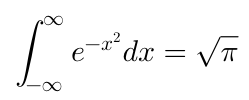
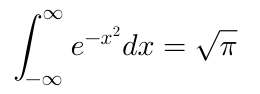
Updated readme/changelog for new release.
Updated example images.

Changed region(s): [[0.253, 0.2766, 0.9558, 0.6809], [0.0562, 0.1064, 0.253, 0.9149]]

diff --git a/EXAMPLES.md b/EXAMPLES.md
@@ -48,6 +48,13 @@ x = \frac{-b \pm \sqrt{b^2-4ac}}{2a}
 
 ![Limit](img/limit.png)
 
+## Calculus
+```LaTeX
+f(x) = \int_{-\infty}^\infty\hat f(\xi)\,e^{2 \pi i \xi x}\,d\xi
+```
+
+![Calculus](img/calculus.png)
+
 ## Stirling Numbers of the Second Kind
 ```LaTeX
 {n \brace k} = \frac{1}{k!}\sum_{j=0}^k (-1)^{k-j}\binom{k}{j}(k-j)^n
@@ -88,4 +95,78 @@ i\hbar\frac{\partial}{\partial t}\Psi(x,t) = -\frac{\hbar}{2m}\nabla^2\Psi(x,t) 
 
 ![Schroedinger](img/schroedinger.png)
 
+## Lorentz Equations
+Use the `gather` or `displaylines` environments to center multiple
+equations.
+```LaTeX
+\begin{gather}
+\dot{x} = \sigma(y-x) \\
+\dot{y} = \rho x - y - xz \\
+\dot{z} = -\beta z + xy"
+\end{gather}
+```
 
+![Lorentz](img/lorentz.png)
+
+## Cross product
+```LaTeX
+\vec V_1 \times \vec V_2 =  \begin{vmatrix}
+\hat \imath &\hat \jmath &\hat k \\
+\frac{\partial X}{\partial u} & \frac{\partial Y}{\partial u} & 0 \\
+\frac{\partial X}{\partial v} & \frac{\partial Y}{\partial v} & 0
+\end{vmatrix}
+```
+
+![Cross Product](img/cross.png)
+
+## Maxwell's Equations
+Use the `aligned`, `eqalign` or `split` environments to align
+multiple equations.
+```LaTeX
+\begin{eqalign}
+\nabla \cdot \vec{E} & = \frac {\rho} {\varepsilon_0} \\
+\nabla \cdot \vec{B} & = 0 \\
+\nabla \times \vec{E} &= - \frac{\partial\vec{B}}{\partial t} \\
+\nabla \times \vec{B} & = \mu_0\vec{J} + \mu_0\varepsilon_0 \frac{\partial\vec{E}}{\partial t}
+\end{eqalign}
+```
+
+![Maxwell's Equations](img/maxwell.png)
+
+## Matrix multiplication
+Supported matrix environments: `matrix`, `pmatrix`, `bmatrix`, `Bmatrix`,
+`vmatrix`, `Vmatrix`.
+```LaTeX
+\begin{pmatrix}
+a & b\\ c & d
+\end{pmatrix}
+\begin{pmatrix}
+\alpha & \beta \\ \gamma & \delta
+\end{pmatrix} = 
+\begin{pmatrix}
+a\alpha + b\gamma & a\beta + b \delta \\
+c\alpha + d\gamma & c\beta + d \delta 
+\end{pmatrix}
+```
+
+![Matrix Multiplication](img/matrixmult.png)
+
+## Cases
+```LaTeX
+f(x) = \begin{cases}
+\frac{e^x}{2} & x \geq 0 \\
+1 & x < 0
+\end{cases}
+```
+
+![Cases](img/cases.png)
+
+## Splitting long equations
+```LaTeX
+Q(\lambda,\hat{\lambda}) = 
+-\frac{1}{2} P(O \mid \lambda ) \sum_s \sum_m \sum_t \gamma_m^{(s)} (t) +\\ 
+\quad \left( \log(2 \pi ) + \log \left| C_m^{(s)} \right| + 
+\left( o_t - \hat{\mu}_m^{(s)} \right) ^T C_m^{(s)-1} \right) 
+```
+
+![Long equation](img/long.png)

diff --git a/README.md b/README.md
@@ -21,7 +21,7 @@ library:
 
 ![Quadratic Formula](img/quadratic.png) 
 
-![Gauss Integral](img/gaussintegral.png)
+![Calculus](img/calculus.png)
 
 ![AM-GM](img/amgm.png)
 
@@ -99,6 +99,9 @@ This is a list of formula types that the library currently supports:
 * Ratios, proportions, percents
 * Math spacing
 * Overline and underline
+* Math accents
+* Matrices
+* Equation alignment
 * Most commonly used math symbols
 
 ### Example
@@ -191,11 +194,9 @@ some important pieces that are missing and will be included in future
 updates. This includes:
 
 * Support for explicit big delimiters (bigl, bigr etc.)
-* Math accents
-* Aligning equations
-* Some symbols are not yet included
-* Matrices
 * Constructing tall radicals and delimiters
+* Support for specifing fonts such as `\cal` or `\rm`
+* Addition of missing plain TeX commands 
 
 ## Related Projects
 

diff --git a/CHANGELOG.md b/CHANGELOG.md
@@ -1,5 +1,19 @@
 ## Changelog
 
+### v0.9.0 (2016-08-29)
+* Added support for matrix environments (matrix, pmatrix, bmatrix,
+  Bmatrix, vmatrix, Vmatrix)
+* Added support for equation alignment (eqalign, displaylines, gather,
+  split, aligned, eqnarray)
+* Added support for the \\\\ command to split long equations
+* Added support for math accents (e.g. \\hat, \\tilde etc.)
+* Added support for `cases` environment.
+* Added support for style commands (e.g. \\displaystyle etc.)
+* Improve rendering of square roots and large symbols
+* API changes:
+  * Updated API for `MTMathAtomFactory`.
+  * Rename `MTLargeGlyphDisplay` to `MTGlyphDisplay`
+
 ### v0.8.4 (2016-08-10)
 * Fix crash for \\epsilon and \\varrho
 * Add commands: \\mho, \\angstrom and \\AA
